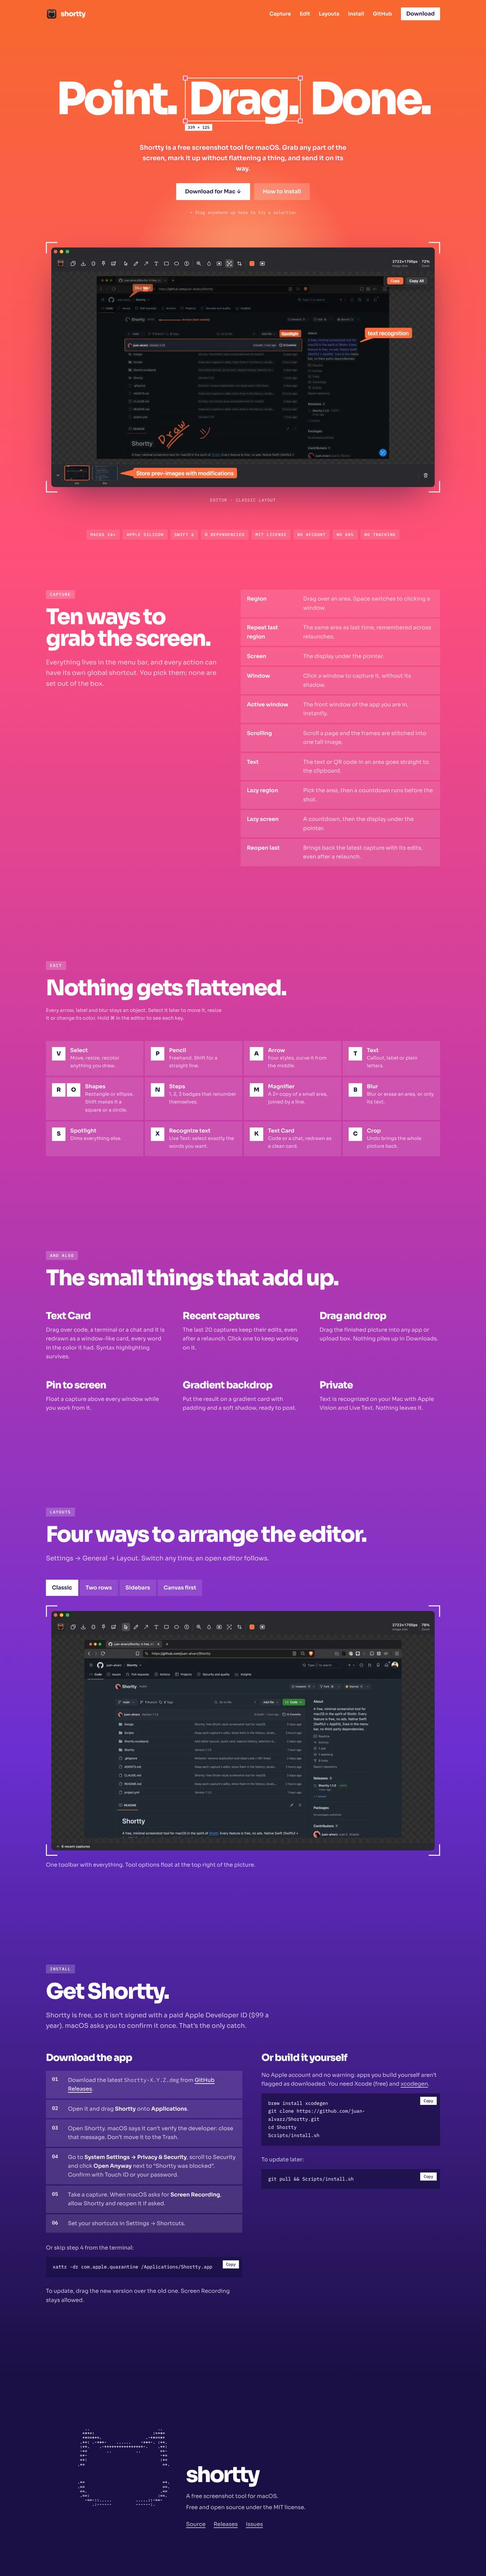
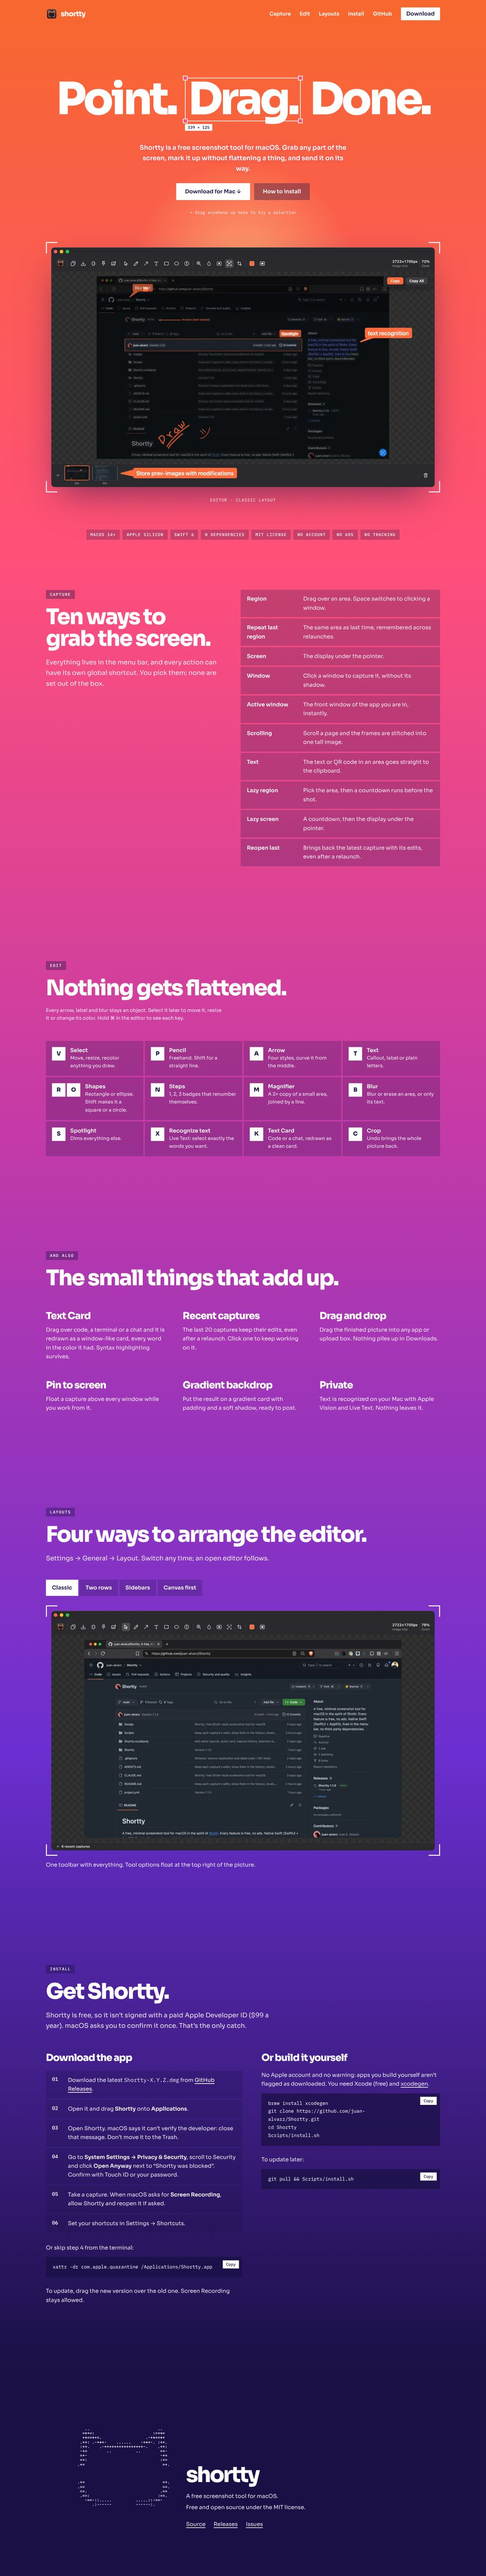
Fix: darker tiles and stronger secondary text for readable white type
Claude-Session: https://claude.ai/code/session_019xH8RKv4cB1Pgr3WMhaeZY

diff --git a/src/styles/global.css b/src/styles/global.css
@@ -25,10 +25,10 @@
   --light: #ffffff;
   --accent: #ffffff;
   --white: #ffffff;
-  --tile: rgb(255 255 255 / 0.12);
-  --tile-strong: rgb(255 255 255 / 0.2);
-  --on-dark-muted: rgb(255 255 255 / 0.74);
-  --on-light-muted: rgb(255 255 255 / 0.74);
+  --tile: rgb(27 16 70 / 0.24);
+  --tile-strong: rgb(27 16 70 / 0.36);
+  --on-dark-muted: rgb(255 255 255 / 0.9);
+  --on-light-muted: rgb(255 255 255 / 0.9);
 
   /* Type */
   --display: 'Sora', 'Avenir Next', 'Helvetica Neue', sans-serif;
